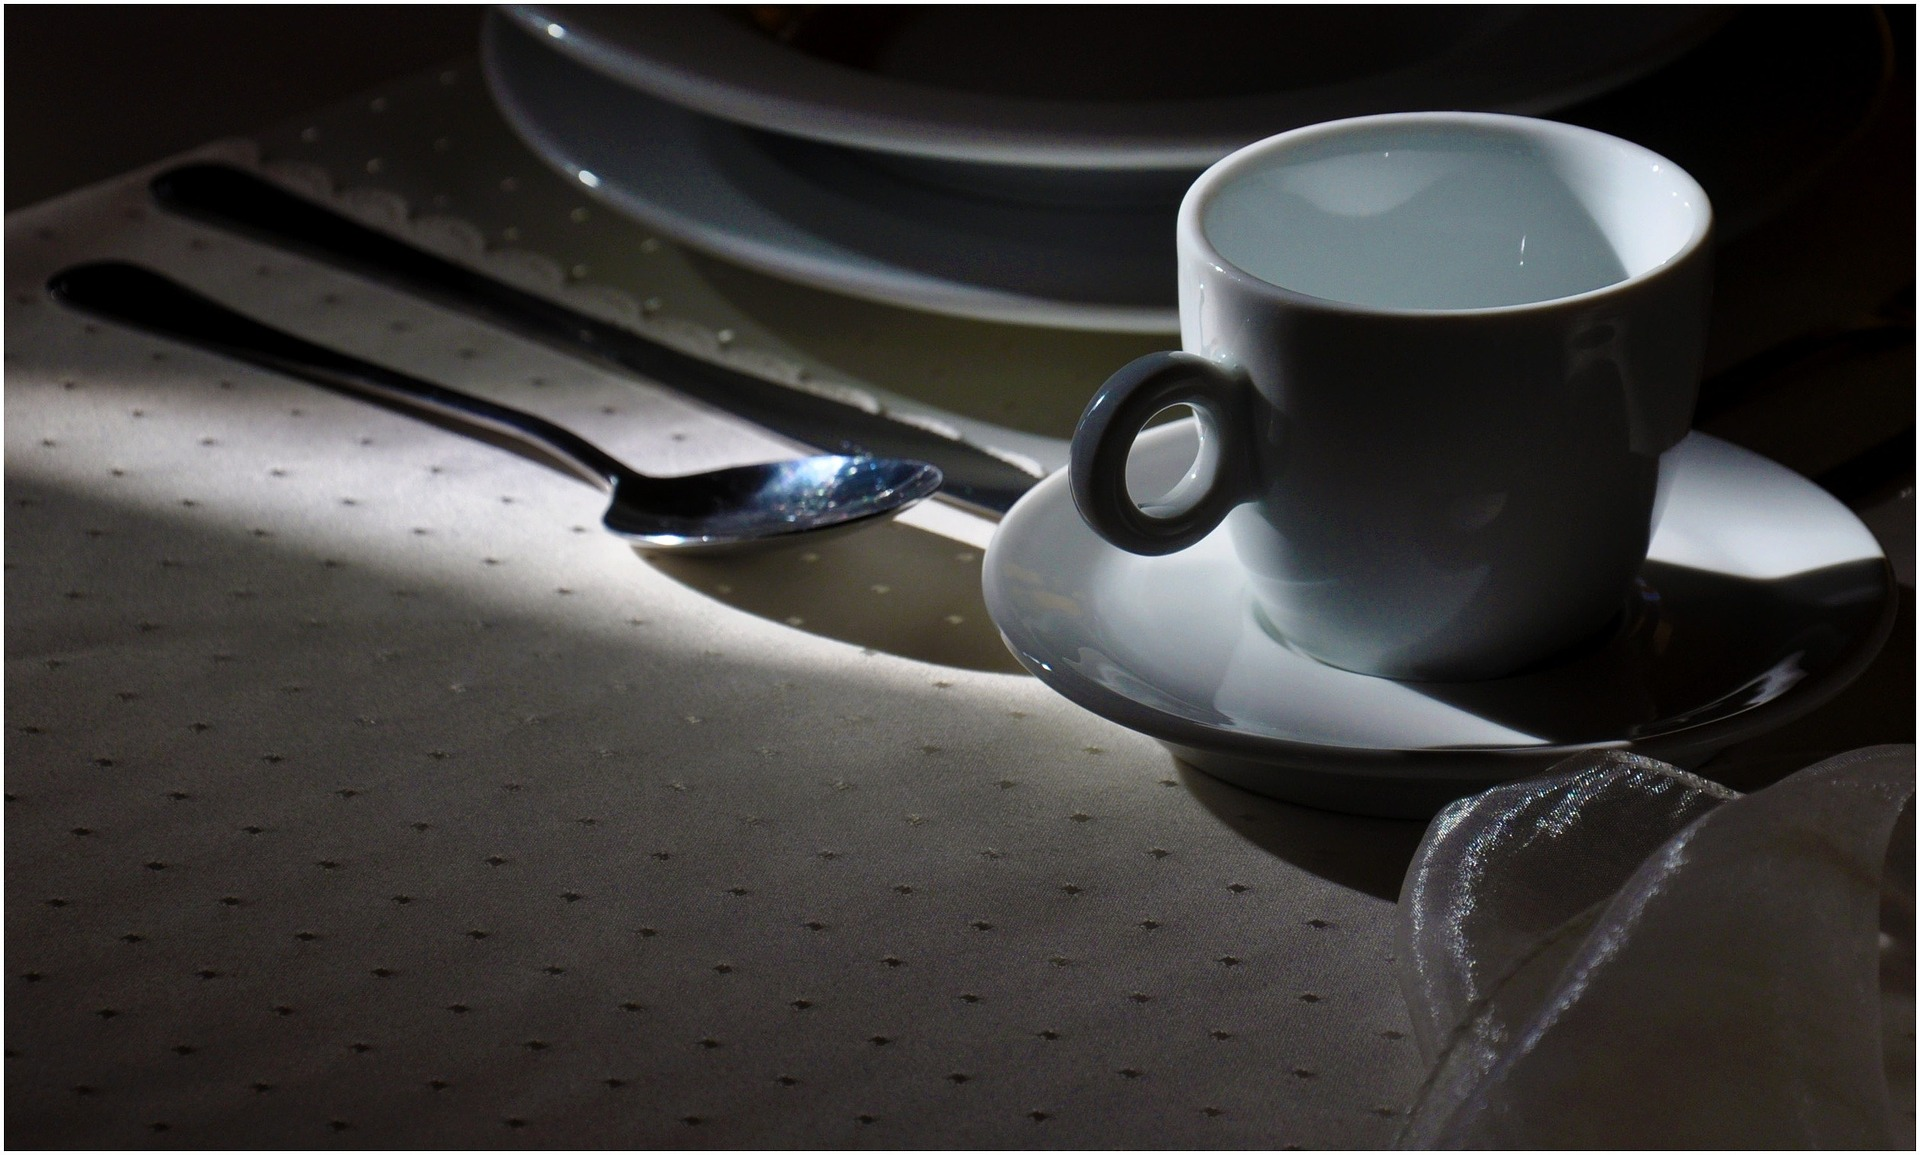
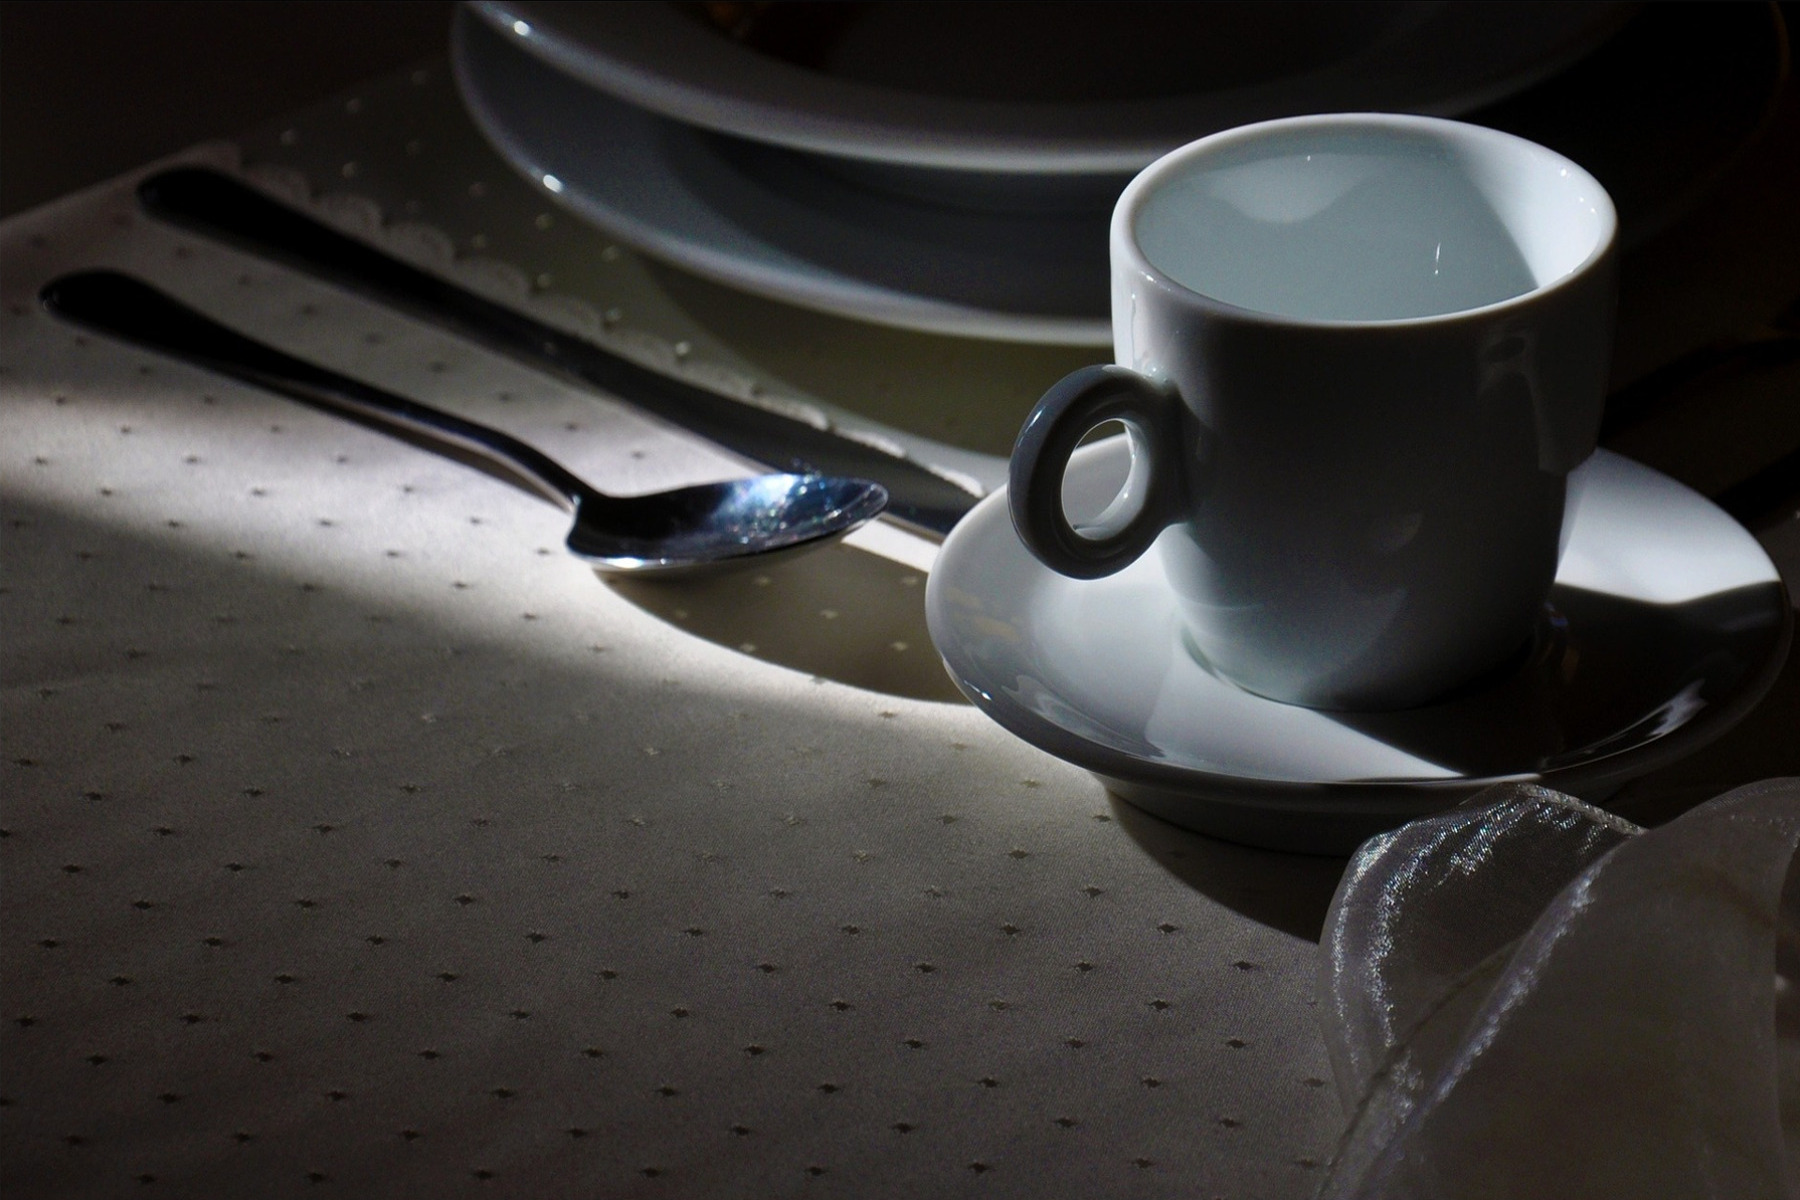
modifications section restaurant (images, couleurs, cadres)

diff --git a/index.html b/index.html
@@ -172,7 +172,7 @@
                         <p class="Restaurant__galleryZoom--display btn btn-secondary">Cliquez pour zoomer</p>
                         <div class="Restaurant__gallery Restaurant__hidden--right Restaurant__hidden" itemscope itemtype="http://schema.org/ImageGallery">
                             <figure itemprop="associatedMedia" itemscope itemtype="http://schema.org/ImageObject">
-                                <a href="images/table-ambiance-cosy.jpg" itemprop="contentUrl" data-size="1920x1155">
+                                <a href="images/table-ambiance-cosy.jpg" itemprop="contentUrl" data-size="1800x1200">
                                     <img src="images/table-ambiance-cosy.jpg" itemprop="thumbnail" alt="Entrez dans une ambiance cosy" class="Restaurant__gallery--smallImage img-fluid"
                                     />
                                 </a>
@@ -234,7 +234,7 @@
                 <div class="col-12 card card-body Restaurant__background3">
 
                     <div class="text-center">
-                        <div class="Restaurant__hidden--left Restaurant__hidden Restaurant__text--title--border badge badge-primary badge-light display-4">
+                        <div class="Restaurant__hidden--left Restaurant__hidden Restaurant__text--title--border Restaurant__text--title--dephasage badge badge-primary badge-light display-4">
                             <h2 class="Restaurant__text--title Restaurant__text--title--secondBorder badge badge-primary badge-light display-4">Le concept du restaurant</h2>
                         </div>
 
@@ -249,11 +249,11 @@
 
                     <div class="row">
                         <div class="col-12 col-md-4 offset-md-1 Restaurant__text Restaurant__hidden--right Restaurant__hidden">
-                            <div class="card text-center">
-                                <div class="card-header">
+                            <div class="card text-center Restaurant__card__profils--margin">
+                                <div class="card-header Restaurant__card__profils__header">
                                     <img src="https://wildcodeschool.fr/wp-content/uploads/2017/01/Julien-Boyer-350x350.jpg" alt="Julien Boyer" class="img-fluid">
                                 </div>
-                                <div class="card-body">
+                                <div class="card-body Restaurant__card__profils">
                                     <h3 class="card-title">Julien Boyer</h3>
                                     <p>Non aute non id duis culpa dolore laborum minim mollit culpa consectetur sit. Adipisicing
                                         commodo culpa dolor quis est aute.</p>
@@ -261,11 +261,11 @@
                             </div>
                         </div>
                         <div class="col-12 col-md-4 offset-md-2 Restaurant__text Restaurant__hidden--left Restaurant__hidden">
-                            <div class="card text-center">
-                                <div class="card-header ">
+                            <div class="card text-center Restaurant__card__profils--margin">
+                                <div class="card-header Restaurant__card__profils__header">
                                     <img src="https://wildcodeschool.fr/wp-content/uploads/2017/04/Photo-LV-350x350.jpg" alt="Laetitia Varela" class="img-fluid">
                                 </div>
-                                <div class="card-body">
+                                <div class="card-body Restaurant__card__profils">
                                     <h3 class="card-title">Laetitia Varela</h3>
                                     <p>Esse tempor enim ad in ullamco aliqua adipisicing quis laborum sunt ex labore deserunt
                                         sint.
@@ -279,22 +279,22 @@
 
                     <div class="row">
                         <div class="col-12 col-md-4 offset-md-1 Restaurant__text Restaurant__hidden--left Restaurant__hidden">
-                            <div class="card text-center">
-                                <div class="card-header">
+                            <div class="card text-center Restaurant__card__profils--margin">
+                                <div class="card-header Restaurant__card__profils__header">
                                     <img src="images/chef-nicolas.jpg" alt="Chef Nicolas" class="img-fluid">
                                 </div>
-                                <div class="card-body">
+                                <div class="card-body Restaurant__card__profils">
                                     <h3 class="card-title">Chef Nicolas</h3>
                                     <p>Qui ad proident quis esse commodo. Sit mollit sunt ea occaecat. </p>
                                 </div>
                             </div>
                         </div>
                         <div class="col-12 col-md-4 offset-md-2 Restaurant__text Restaurant__hidden--right Restaurant__hidden">
-                            <div class="card text-center">
-                                <div class="card-header">
+                            <div class="card text-center Restaurant__card__profils--margin">
+                                <div class="card-header Restaurant__card__profils__header">
                                     <img src="images/chef-addams.jpg" alt="Chef Addams" class="img-fluid">
                                 </div>
-                                <div class="card-body">
+                                <div class="card-body Restaurant__card__profils">
                                     <h3 class="card-title">Chef Addams</h3>
                                     <p>Mollit est cupidatat ipsum ex dolore consectetur. Consectetur veniam.</p>
                                 </div>

diff --git a/style.css b/style.css
@@ -132,15 +132,15 @@ a.ytube,
 }
 
 .Restaurant__background1 {
-  background-color: rgb(200, 200, 200);
+  background-color: #fff8f3;
 }
 
 .Restaurant__background2 {
-  background-color: rgb(10, 10, 10);
+  background-color: #554f48;
 }
 
 .Restaurant__background3 {
-  background-color: rgb(150, 150, 150);
+  background-color: #fff8f3;
 }
 
 .Restaurant__galleryZoom {
@@ -209,6 +209,22 @@ a.ytube,
   font-size: 2em;
   margin: 2px 2px 2px 2px;
   padding: 10px 10px 10px 10px;
+}
+
+.Restaurant__card__profils__header {
+  background-color: #554f48;
+}
+
+.Restaurant__card__profils {
+  background-color: white;
+  height: 250px;
+  overflow-y: scroll;
+  overflow: -moz-scrollbars-vertical;
+  margin-bottom: 0px;
+}
+
+.Restaurant__card__profils--margin {
+  margin-bottom: 20px;
 }
 
 .Restaurant__text--sign {
